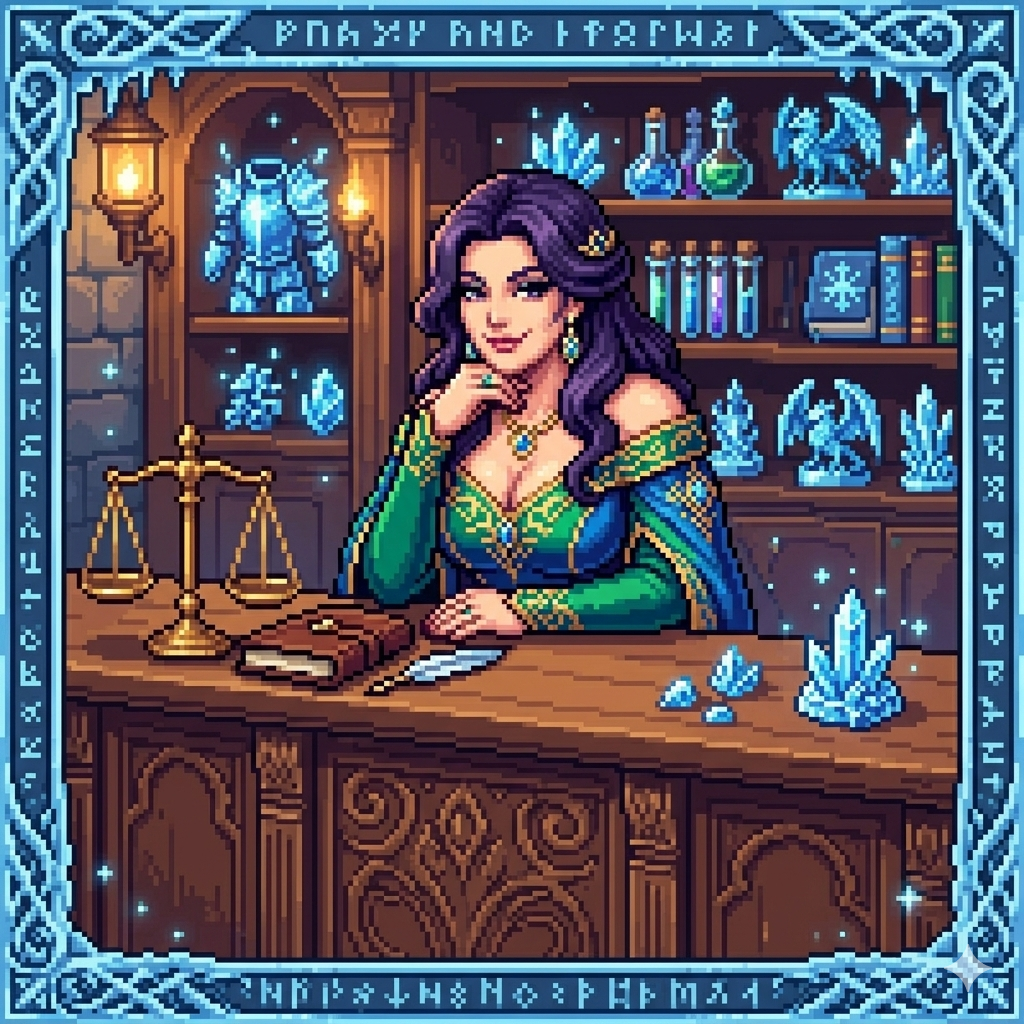
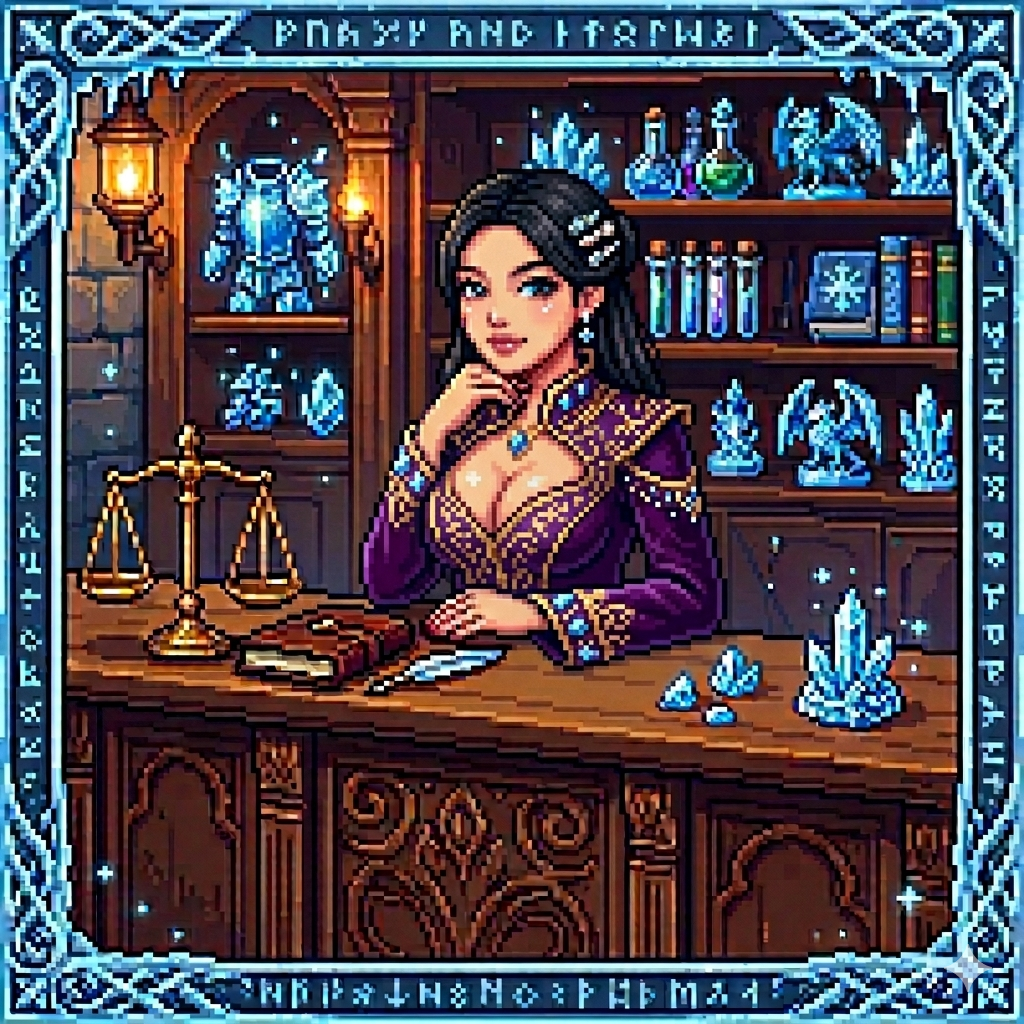
RPG: rename shopkeeper to 앨리스 + first-encounter cutscene; wounded hero portrait under 40% HP
- Replace shop portrait art; rename node/title to 앨리스의 가게
- Add ALICE_INTRO cutscene played once per run on first shop entry (alice speaker)
- Swap hero sprite to mage-wounded.png when HP ≤ 40%, restore on heal
- Bump SW cache to v27-alice; cache new wounded sprite

diff --git a/rpg/game.js b/rpg/game.js
@@ -16,6 +16,7 @@ const HEROES = [
     skill: { name: '화염구', quote: '타올라라 — 이 세계마저!', cooldown: 3, burnDmg: 6, burnTurns: 3 },
     portrait: '../assets/heroes/mage.png',
     sprite: '../assets/heroes/mage.png',
+    spriteWounded: '../assets/heroes/mage-wounded.png',
     defaultSkill: 'fireball',
   },
   {
@@ -338,7 +339,26 @@ const SPEAKERS = {
   dryad:  '../assets/bosses/dryad.png',
   witch:  '../assets/bosses/witch.png',
   dragon: '../assets/bosses/dragon-human.png',
+  alice:  '../assets/scenes/merchant.png',
 };
+
+// 앨리스 — 첫 등장 컷씬 (런 당 1회)
+const ALICE_INTRO = [
+  { img: '../assets/story/prologue-3-cave.png',
+    text: '동굴 한가운데 — 어울리지 않는 따뜻한 등불 하나.\n수정과 약병이 가지런히 늘어선, 작은 가게가 자리잡고 있다.' },
+  { speaker: 'ignia',
+    text: '이그니아 — "…이런 곳에, 가게?"' },
+  { speaker: 'alice',
+    text: '앨리스 — "어머, 손님이네요. 어서 오세요.\n이런 데까지 내려오는 분은 정말 오랜만이라."' },
+  { speaker: 'ignia',
+    text: '이그니아 — "…너, 어둠이 무섭지 않아?"' },
+  { speaker: 'alice',
+    text: '앨리스 — "글쎄요. 어둠이 무서운 사람은… 보통 여기까지 못 내려오죠.\n저는 그저, 필요한 사람에게 필요한 걸 건넬 뿐이에요."' },
+  { speaker: 'alice',
+    text: '앨리스 — "제 이름은 앨리스. 골드만 있다면, 무엇이든 거래해드려요."' },
+  { speaker: 'ignia',
+    text: '이그니아 — "…수상한 가게군.\n뭐, 손해 볼 건 없겠지."' },
+];
 
 const BOSS_STORIES = {
   // 1층 — 어둠의 드리아드
@@ -523,7 +543,7 @@ const NODE_TEMPLATES = {
   treasure: { type: 'treasure', kind: 'treasure', icon: '💰', name: '보물' },
   rest:     { type: 'rest',     kind: 'rest',     icon: '💧', name: '샘물' },
   chest:    { type: 'chest',    kind: 'chest',    icon: '📦', name: '의문의 상자' },
-  shop:     { type: 'shop',     kind: 'shop',     icon: '🏪', name: '방랑 상인' },
+  shop:     { type: 'shop',     kind: 'shop',     icon: '🏪', name: '앨리스의 가게' },
 };
 
 function rollNodeTemplate() {
@@ -703,6 +723,7 @@ function startBattle(kind, node) {
     art.style.fontSize = def.boss ? '90px' : '70px';
   }
   $('hero-img').src = HERO.sprite;
+  game.run._heroSpriteWounded = false;
   // 점화 가호 — 전투 시작 시 자동 화상
   const sb = hasBoonMod('startBurn');
   if (sb && sb.mod && sb.mod.startBurn) {
@@ -728,6 +749,15 @@ function refreshBattleUI() {
   $('hero-hp-fill').classList.remove('low', 'critical');
   if (r.hp / r.maxHp < 0.25) $('hero-hp-fill').classList.add('critical');
   else if (r.hp / r.maxHp < 0.5) $('hero-hp-fill').classList.add('low');
+  // 부상 일러스트 — HP 40% 이하에서 교체, 회복 시 원래 스프라이트로 복귀
+  const woundedSrc = HERO.spriteWounded;
+  if (woundedSrc) {
+    const shouldWound = r.hp / r.maxHp <= 0.4 && r.hp > 0;
+    if (shouldWound !== r._heroSpriteWounded) {
+      r._heroSpriteWounded = shouldWound;
+      $('hero-img').src = shouldWound ? woundedSrc : HERO.sprite;
+    }
+  }
   $('turn-num').textContent = b.turn;
   $('hud-floor').textContent = r.floor;
   $('hud-room').textContent = r.roomNum;
@@ -1445,7 +1475,13 @@ function openShop(node) {
   const shuffled = [...SHOP_ITEMS].sort(() => Math.random() - 0.5).slice(0, 4);
   game.run.shopOffer = shuffled.map(item => ({ ...item, sold: false }));
   renderShop();
-  showScreen('shop-screen');
+  // 첫 등장 — 짧은 컷씬 후 가게 입장
+  if (!game.run.aliceMet) {
+    game.run.aliceMet = true;
+    playStorySequence(ALICE_INTRO, () => showScreen('shop-screen'), { finalLabel: '가게로 ▶' });
+  } else {
+    showScreen('shop-screen');
+  }
 }
 
 function renderShop() {

diff --git a/rpg/index.html b/rpg/index.html
@@ -222,12 +222,12 @@
       </div>
     </div>
 
-    <!-- ===== 상점 (방랑 상인) ===== -->
+    <!-- ===== 상점 (앨리스의 가게) ===== -->
     <div id="shop-screen" class="screen hidden">
       <div class="shop-header">
-        <div class="shop-title">🏪 방랑 상인 🏪</div>
+        <div class="shop-title">🏪 앨리스의 가게 🏪</div>
         <img class="shop-portrait" src="../assets/scenes/merchant.png" alt="">
-        <div class="shop-flavor">"어둠 속에서도 거래는 계속된다 — 자, 무엇을 사겠나?"</div>
+        <div class="shop-flavor">"어서 오세요. — 또 만났네요. 오늘은 무얼 찾고 있나요?"</div>
         <div class="shop-gold-bar">소지금: <span id="shop-gold">0</span> 골드</div>
       </div>
       <div id="shop-items" class="shop-items"></div>

diff --git a/rpg/sw.js b/rpg/sw.js
@@ -1,4 +1,4 @@
-const CACHE = 'ignia-v26-merchant';
+const CACHE = 'ignia-v27-alice';
 const ASSETS = [
   './',
   './index.html',
@@ -7,6 +7,7 @@ const ASSETS = [
   './manifest.json',
   './title.png',
   '../assets/heroes/mage.png',
+  '../assets/heroes/mage-wounded.png',
   '../assets/heroes/archer.png',
   '../assets/heroes/merchant.png',
   '../assets/skills/ignia-fireball.png',

diff --git a/rpg/style.css b/rpg/style.css
@@ -1488,7 +1488,7 @@ button:active { transform: scale(0.96); }
 }
 
 /* ============================================================
-   방랑 상인
+   앨리스의 가게
    ============================================================ */
 #shop-screen {
   background:
